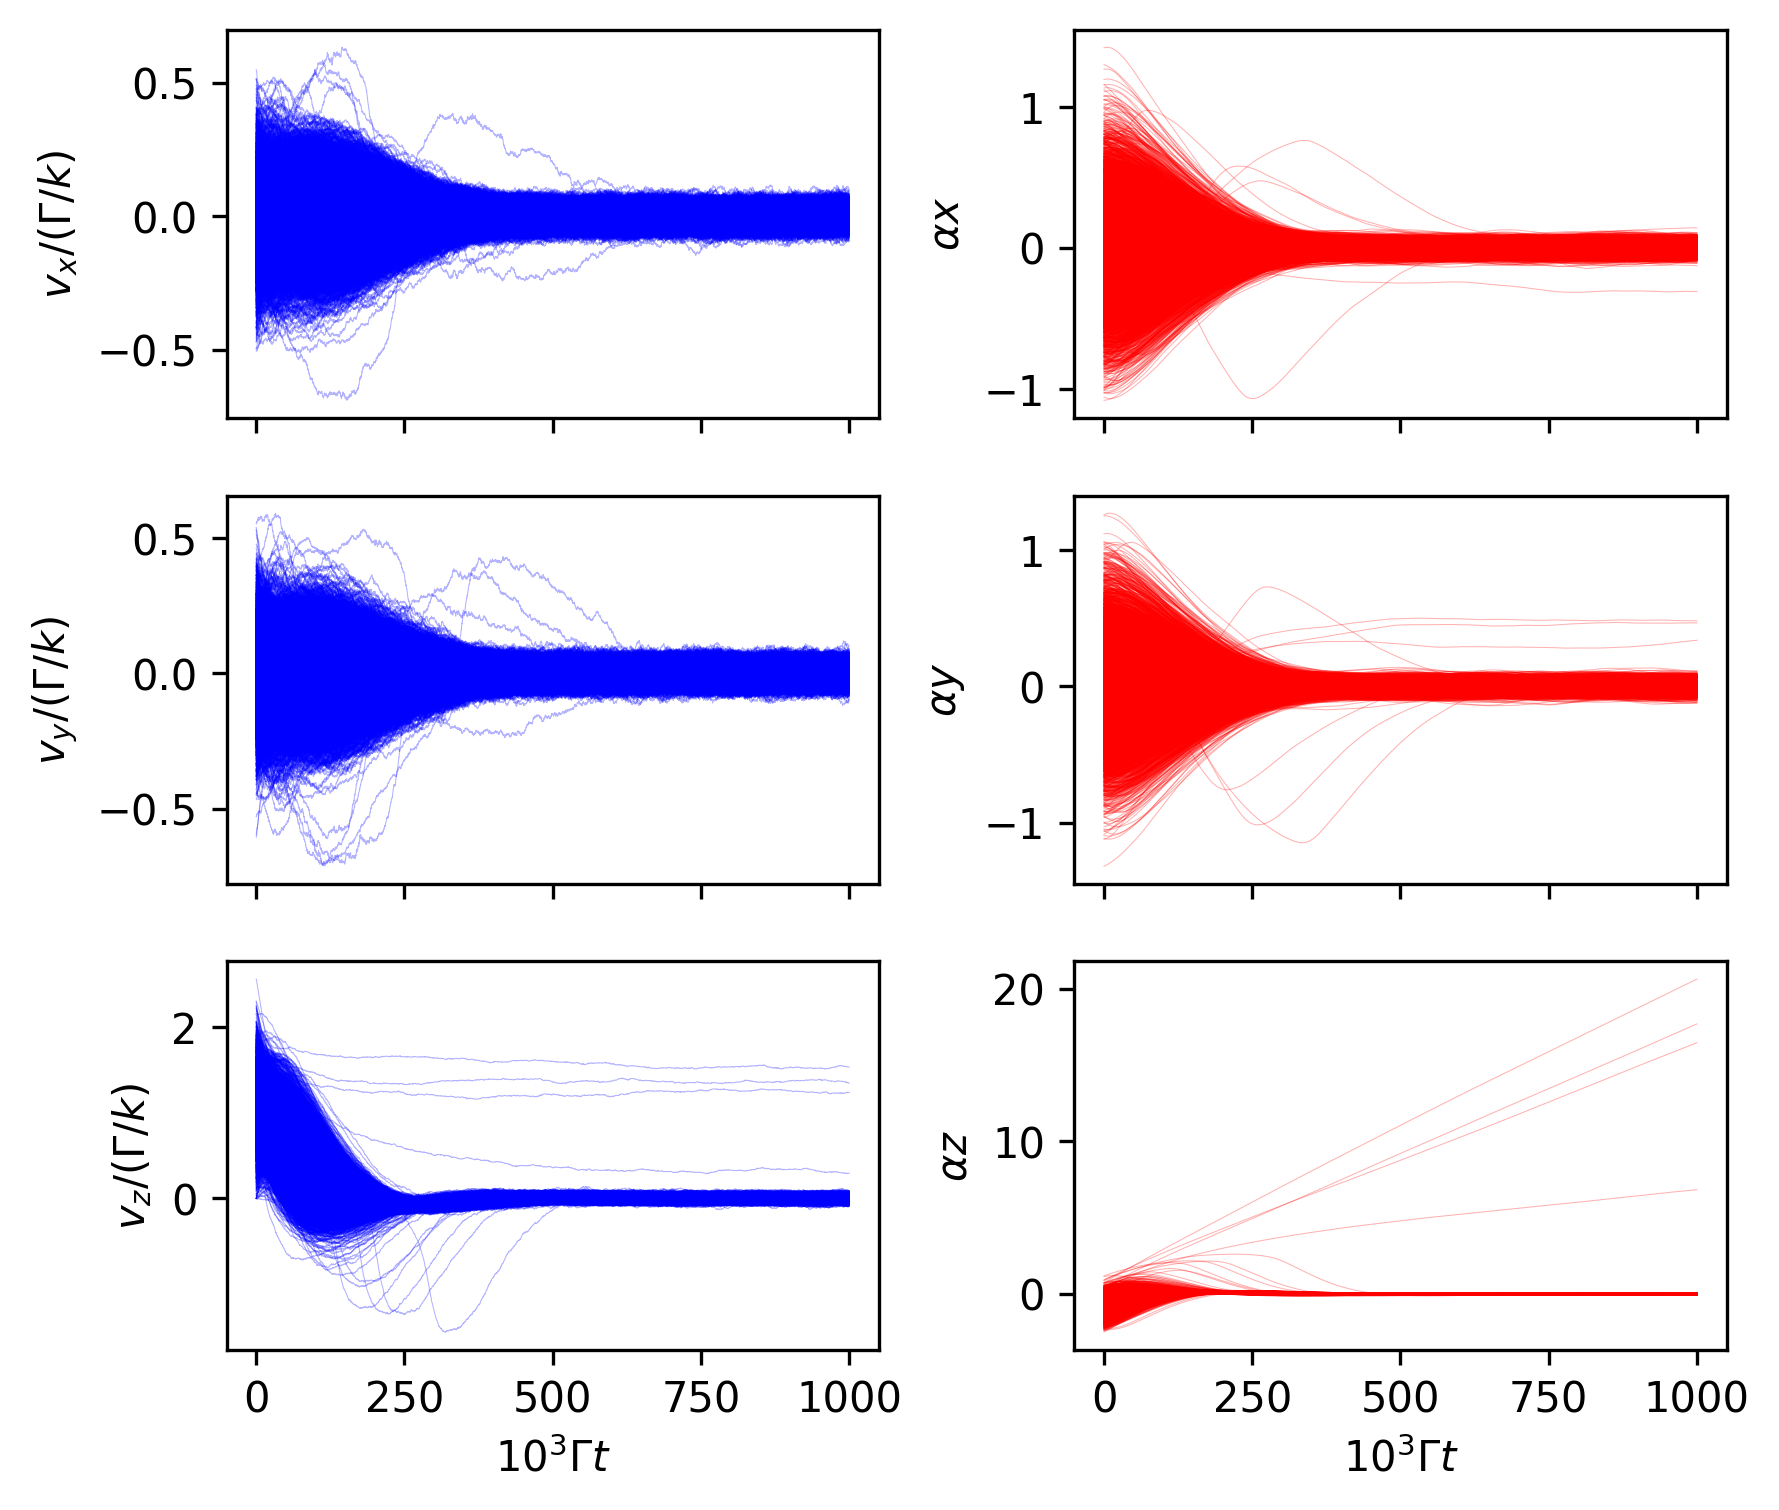
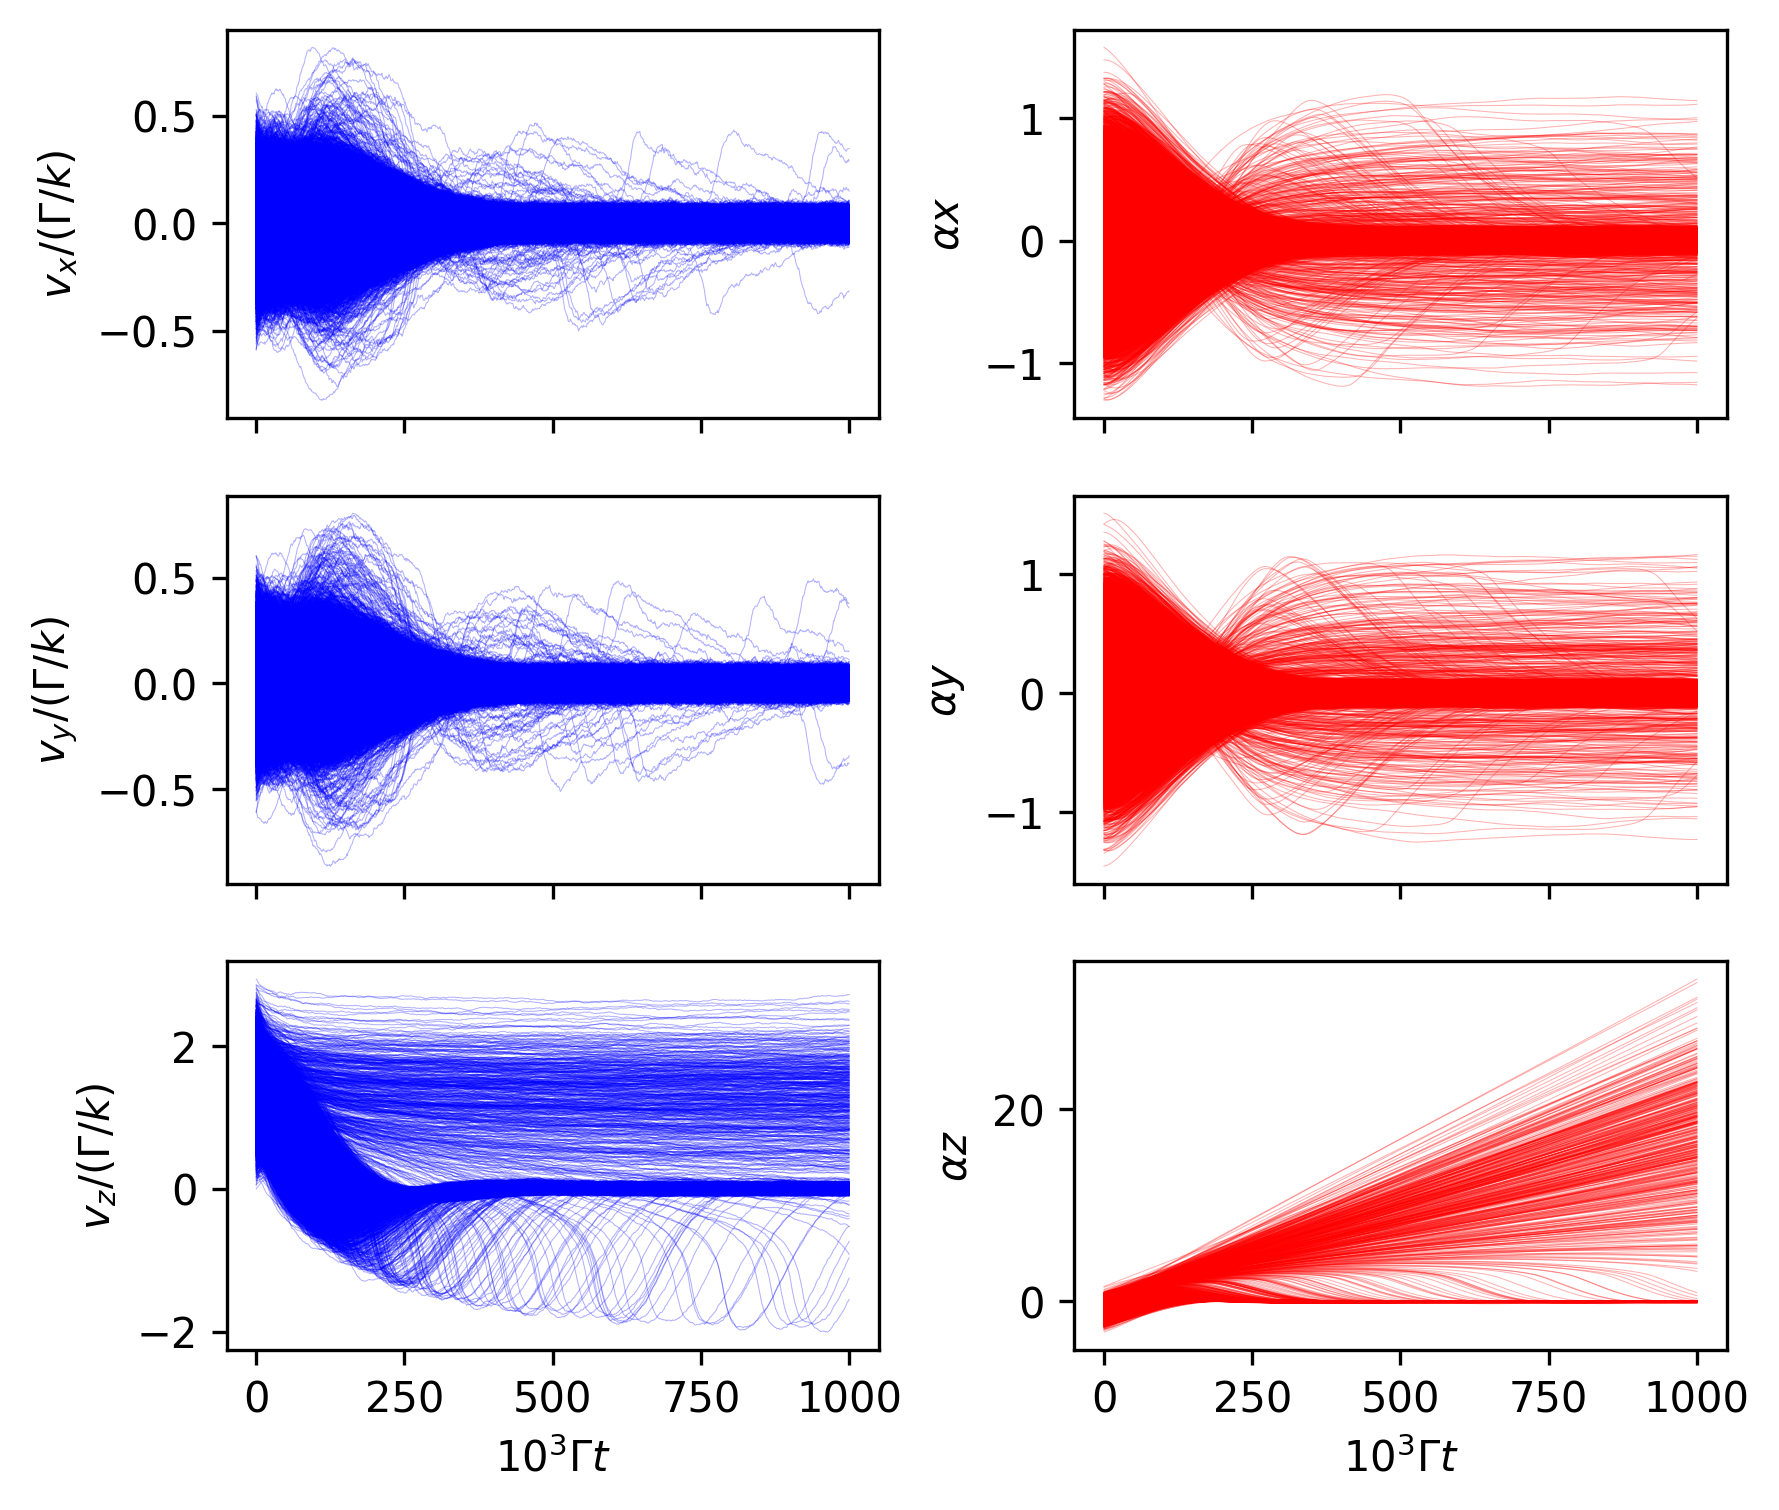
scale blue MOT run to 65536 atoms, trim cloud_summary

diff --git a/simulations/analysis.py b/simulations/analysis.py
@@ -485,66 +485,35 @@ def fit_distributions(results, units, mask=None, n_bins=60):
 # ---------------------------------------------------------------------------
 
 def cloud_summary(results, units):
-    """Print a full summary of the simulation results.
+    """Summary of cloud size and temperature (captured atoms).
 
     Returns the summary as a formatted string.
     """
     N = len(results)
     mask = classify_captured(results)
-    n_cap = mask.sum()
-    frac = n_cap / N
+    n_cap = int(mask.sum())
 
     temp = temperature(results, units, mask=mask)
     T_D = doppler_temperature(units['gamma_real'])
     size = cloud_size(results, units, mask=mask)
-    scat = scattering_rate(results, units, mask=mask)
-    psd = phase_space_density(results, units, mask=mask)
-    v_cap = capture_velocity(results, units, mask=mask)
-    t_eq = equilibration_time(results, units, mask=mask)
-    loading = loading_curve(results, units)
-
-    # Loading curve milestones
-    n_captured = loading['n_captured']
-    t_ms = loading['t_ms']
-    half_idx = np.searchsorted(n_captured, n_captured[-1] * 0.5)
-    t_half = t_ms[min(half_idx, len(t_ms) - 1)]
 
     lines = [
         f"=== MOT Simulation Summary ===",
-        f"  Total atoms:       {N}",
-        f"  Captured:          {n_cap} ({100*frac:.1f}%)",
-        f"  Lost:              {N - n_cap} ({100*(1-frac):.1f}%)",
+        f"  Total atoms:  {N}   Captured: {n_cap} ({100*n_cap/N:.1f}%)",
         f"",
         f"--- Temperature (captured atoms) ---",
         f"  T_x = {temp['T_x']*1e6:.1f} uK    (v_rms = {temp['v_rms_x']*100:.2f} cm/s)",
         f"  T_y = {temp['T_y']*1e6:.1f} uK    (v_rms = {temp['v_rms_y']*100:.2f} cm/s)",
         f"  T_z = {temp['T_z']*1e6:.1f} uK    (v_rms = {temp['v_rms_z']*100:.2f} cm/s)",
-        f"  T_mean = {temp['T_mean']*1e6:.1f} uK",
+        f"  T_mean   = {temp['T_mean']*1e6:.1f} uK",
         f"  T_Doppler = {T_D*1e6:.1f} uK   (ratio T/T_D = {temp['T_mean']/T_D:.2f})",
         f"",
         f"--- Cloud size (captured atoms, 1-sigma) ---",
         f"  sigma_x = {size['sigma_x_mm']:.3f} mm",
         f"  sigma_y = {size['sigma_y_mm']:.3f} mm",
         f"  sigma_z = {size['sigma_z_mm']:.3f} mm",
-        f"  center  = ({size['center_x']*1e3:.3f}, {size['center_y']*1e3:.3f}, {size['center_z']*1e3:.3f}) mm",
-        f"",
-        f"--- Phase-space density ---",
-        f"  PSD = {psd['psd']:.2e}",
-        f"  lambda_dB = {psd['lambda_dB']*1e9:.2f} nm",
-        f"  n_peak = {psd['n_peak']:.2e} /m^3",
-        f"",
-        f"--- Capture velocity ---",
-        f"  v_capture (max captured) = {v_cap['v_capture_si']:.2f} m/s",
-        f"  v_capture (95th pct)     = {v_cap['v_capture_95']:.2f} m/s",
-        f"",
-        f"--- Equilibration ---",
-        f"  t_eq (90% settled) = {t_eq['t_eq_ms']:.2f} ms",
-        f"  t_half (50% loaded) = {t_half:.2f} ms",
-        f"  N_final in trap = {n_captured[-1]}",
-        f"",
-        f"--- Scattering ---",
-        f"  Mean rate:          {scat['mean_rate']:.2e} /s",
-        f"  Mean per atom:      {scat['mean_scatters_per_atom']:.0f} scatters",
+        f"  center  = ({size['center_x']*1e3:.3f}, "
+        f"{size['center_y']*1e3:.3f}, {size['center_z']*1e3:.3f}) mm",
     ]
     return '\n'.join(lines)
 

diff --git a/simulations/blue_mot/blue_mot_sim.py b/simulations/blue_mot/blue_mot_sim.py
@@ -111,7 +111,7 @@ sols = obe.evolve_motion(
     keys_batch=keys_batch,
     random_recoil=True,
     max_scatter_probability=0.5,
-    n_points=5000,
+    n_points=1000,
     progress=True,
 )
 
